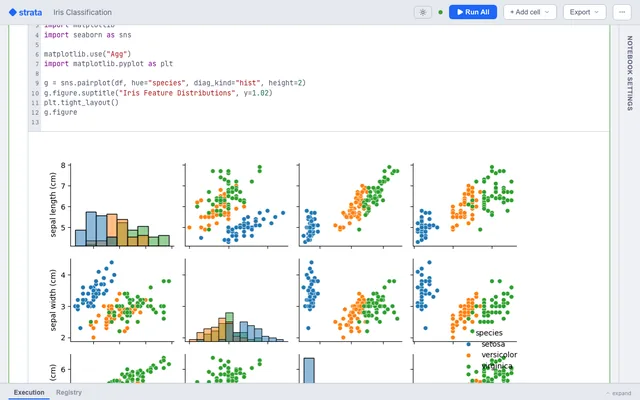
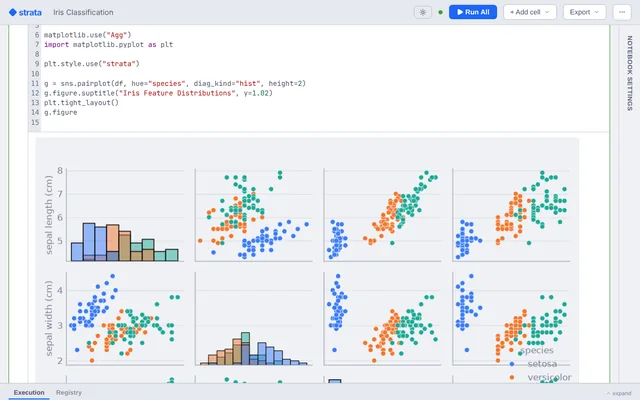
feat(display): plt.style.use("strata"), and the examples that plot use it (#1678)
* feat(display): plt.style.use("strata"), and the examples that plot use it

A matplotlib style that ships with Strata: a transparent background, grey
text and the notebook's accents, so a chart reads on the light and the dark
theme instead of sitting in matplotlib's white box. The display runtime
registers it by name when a cell imports matplotlib.style (pyplot imports it);
nothing is applied unless the cell asks.

The seven example cells that plot now use it, and the two that set the old
pale blue by hand drop it for the style's colors.

Claude-Session: https://claude.ai/code/session_0153tGTDWfzB9aBrCNiSAYQ5

* fix(display): the strata style asks for a bold title, which DejaVu Sans has

"semibold" made matplotlib print a findfont warning into the cell's console.

Claude-Session: https://claude.ai/code/session_0153tGTDWfzB9aBrCNiSAYQ5

* docs: example thumbnails for the five restyled examples

caching, iris_classification, titanic_ml, model_variants and
widget_playground, recaptured with scripts/capture_docs_shots.py after their
plots took the strata style. arxiv_classifier needs an LLM key and keeps none.

Claude-Session: https://claude.ai/code/session_0153tGTDWfzB9aBrCNiSAYQ5

* docs(changelog): mirror the strata style entry into docs/changelog.md

Claude-Session: https://claude.ai/code/session_0153tGTDWfzB9aBrCNiSAYQ5

* fix(display): review fixes for the strata style

- Cell tests run the cell inside the display runtime's capture, so a cell that
[…]

diff --git a/src/strata/notebook/display/runtime.py b/src/strata/notebook/display/runtime.py
@@ -12,8 +12,14 @@ from collections.abc import Callable
 from contextlib import contextmanager
 from dataclasses import dataclass
 from importlib.machinery import ModuleSpec
+from pathlib import Path
 from types import ModuleType
 from typing import Any
+
+# ``plt.style.use("strata")``: a transparent background and neutral ink, so a chart
+# reads on the notebook's light and dark themes alike.
+STYLE_NAME = "strata"
+STYLE_PATH = Path(__file__).with_name("strata.mplstyle")
 
 
 @dataclass(frozen=True)
@@ -67,9 +73,11 @@ class DisplayCapture:
     def capture_side_effects(self):
         """Capture ``plt.show()`` and ``Figure.show()`` as display outputs.
 
-        Imports nothing itself: pyplot is patched now if loaded, else when the cell
-        imports it. Importing it for every cell costs time and, on a fresh install,
-        prints matplotlib's font-cache notice into whichever cell ran first.
+        Also registers the ``strata`` matplotlib style, and starts the cell from the
+        process's first matplotlib settings. Imports nothing itself: each happens now
+        if matplotlib is loaded, else when the cell imports it. Importing it for every
+        cell costs time and, on a fresh install, prints matplotlib's font-cache notice
+        into whichever cell ran first.
         """
         restore: list[tuple[Any, str, Any]] = []
 
@@ -106,20 +114,73 @@ class DisplayCapture:
                 setattr(figure_cls, "show", _patched_figure_show)
                 restore.append((figure_cls, "show", original_figure_show))
 
-        hook: _AfterImport | None = None
-        if "matplotlib.pyplot" in sys.modules:
-            _patch(sys.modules["matplotlib.pyplot"])
-        else:
-            hook = _AfterImport("matplotlib.pyplot", _patch)
-            sys.meta_path.insert(0, hook)
+        hooks: list[_AfterImport] = []
+        for name, callback in (
+            ("matplotlib", _start_from_baseline_rc),
+            ("matplotlib.style", register_style),
+            ("matplotlib.pyplot", _patch),
+        ):
+            if name in sys.modules:
+                callback(sys.modules[name])
+            else:
+                hook = _AfterImport(name, callback)
+                sys.meta_path.insert(0, hook)
+                hooks.append(hook)
 
         try:
             yield
         finally:
-            if hook is not None and hook in sys.meta_path:
-                sys.meta_path.remove(hook)
+            for hook in hooks:
+                if hook in sys.meta_path:
+                    sys.meta_path.remove(hook)
             for owner, attr, original in reversed(restore):
                 setattr(owner, attr, original)
+
+
+# matplotlib's settings as this process first had them. Cells that share a process
+# (Run All's batch, a warm worker) each start from these, as a cell run alone does,
+# so ``plt.style.use("strata")`` in one cell does not restyle the next one's figure.
+_baseline_rc: dict[str, Any] | None = None
+
+
+def _start_from_baseline_rc(mpl: Any) -> None:
+    """Remember matplotlib's settings the first time, and put them back every later time.
+
+    The backend is left alone, as ``matplotlib.rc_context`` leaves it: switching it
+    would close the figures pyplot holds.
+    """
+    global _baseline_rc
+    try:
+        if _baseline_rc is None:
+            baseline = dict(mpl.rcParams.copy())
+            baseline.pop("backend", None)
+            _baseline_rc = baseline
+            return
+        update_raw = getattr(mpl.rcParams, "_update_raw", None)
+        if update_raw is not None:
+            update_raw(_baseline_rc)
+        else:
+            dict.update(mpl.rcParams, _baseline_rc)
+    except Exception:
+        return
+
+
+def register_style(style: Any) -> None:
+    """Add the Strata style to matplotlib's library, so ``plt.style.use("strata")`` finds it.
+
+    Registers it the way matplotlib loads its own styles. A matplotlib that cannot
+    read the file simply has no ``strata`` style; the cell is not failed for it.
+    """
+    try:
+        from matplotlib import rc_params_from_file
+
+        params = rc_params_from_file(str(STYLE_PATH), use_default_template=False)
+        style.library[STYLE_NAME] = params
+        if STYLE_NAME not in style.available:
+            style.available.append(STYLE_NAME)
+            style.available.sort()
+    except Exception:
+        return
 
 
 class _AfterImport:

diff --git a/tests/notebook/test_harness_batch.py b/tests/notebook/test_harness_batch.py
@@ -945,3 +945,51 @@ def test_an_interrupt_in_a_client_close_still_restores_the_names_it_bound(batch_
 
     assert [type(e) for e in errors] == [KeyboardInterrupt]
     assert namespace["strata"] == "the batch's own"
+
+
+def test_a_style_one_cell_uses_does_not_restyle_the_next(batch_pipes):
+    """Cells in a batch share a process; each starts from matplotlib's first settings,
+    as a cell run on its own does, so its figure does not depend on what ran before."""
+    pytest.importorskip("matplotlib.pyplot")
+    frame_r, frame_w, resp_r, resp_w, output_dir = batch_pipes
+
+    def cell(cell_id: str, source: str) -> dict:
+        return {
+            "cell_id": cell_id,
+            "source": source,
+            "consumed_vars": [],
+            "env": {"MPLBACKEND": "Agg"},
+            "mount_manifest": {},
+        }
+
+    cells = [
+        cell(
+            "styled",
+            "import matplotlib.pyplot as plt\nplt.style.use('strata')\n"
+            "print(plt.rcParams['savefig.transparent'])\n",
+        ),
+        cell("plain", "import matplotlib\nprint(matplotlib.rcParams['savefig.transparent'])\n"),
+    ]
+
+    thread, errors = _run_in_thread(cells, {}, output_dir, frame_w, resp_r)
+
+    frames: list[dict] = []
+    while True:
+        frame = _read_frame(frame_r)
+        if frame is None:
+            break
+        frames.append(frame)
+        if frame["type"] == "cache_check":
+            _send_response(resp_w, {"cache_hit": False, "provenance_hash": "p"})
+        elif frame["type"] == "persist":
+            _send_response(resp_w, {"ok": True, "uri": "strata://test"})
+        elif frame["type"] == "batch_end":
+            break
+
+    thread.join(timeout=5)
+    assert not errors
+
+    stdout = {
+        f["payload"]["cell_id"]: f["payload"]["stdout"] for f in frames if f["type"] == "persist"
+    }
+    assert stdout == {"styled": "True\n", "plain": "False\n"}

diff --git a/src/strata/notebook/cell_test_conftest.py b/src/strata/notebook/cell_test_conftest.py
@@ -13,6 +13,7 @@ may name a ``work_dir``, relative to where pytest started, for the cell to run i
 
 from __future__ import annotations
 
+import contextlib
 import importlib.util
 import json
 import os
@@ -31,6 +32,22 @@ _NO_CLIENT_HINT = (
     "artifacts through the notebook's server. Do that in an upstream cell and test "
     "with its result here."
 )
+
+
+def _display_runtime() -> types.ModuleType | None:
+    """The harness's display runtime, beside the serializer, so the cell runs as in a run:
+    ``plt.style.use("strata")`` finds the style. Without it the cell still runs."""
+    manifest = json.loads((_RUNDIR / "inputs.json").read_text())
+    path = Path(manifest["serializer"]).parent / "display" / "runtime.py"
+    if not path.is_file():
+        return None
+    spec = importlib.util.spec_from_file_location("_nb_display_runtime", path)
+    if spec is None or spec.loader is None:
+        return None
+    runtime = importlib.util.module_from_spec(spec)
+    sys.modules["_nb_display_runtime"] = runtime
+    spec.loader.exec_module(runtime)
+    return runtime
 
 
 def _load_inputs() -> dict[str, object]:
@@ -75,8 +92,13 @@ def cell():
     work_dir = json.loads((_RUNDIR / "inputs.json").read_text()).get("work_dir")
     if work_dir:
         os.chdir(work_dir)
+    runtime = _display_runtime()
+    side_effects = (
+        runtime.DisplayCapture().capture_side_effects() if runtime else contextlib.nullcontext()
+    )
     try:
-        exec(compile(cell_source, "cell_source.py", "exec"), namespace)  # noqa: S102
+        with side_effects:
+            exec(compile(cell_source, "cell_source.py", "exec"), namespace)  # noqa: S102
     except Exception as exc:  # noqa: BLE001 - any cell error → a readable setup error
         pytest.fail(f"Cell did not execute (cannot test it): {type(exc).__name__}: {exc}")
 

diff --git a/tests/notebook/test_harness.py b/tests/notebook/test_harness.py
@@ -335,6 +335,30 @@ plt.show()
         assert "_" in result["variables"]
         assert result["variables"]["_"]["content_type"] == "image/png"
 
+    def test_the_strata_style_is_there_by_name_once_pyplot_is_imported(self, harness_script):
+        """``plt.style.use("strata")`` works in a cell, and the chart it styles is saved
+        with a transparent background, so it reads on either theme."""
+        pytest.importorskip("matplotlib.pyplot")
+        manifest = {
+            "source": """
+import matplotlib.pyplot as plt
+
+plt.style.use("strata")
+print("strata" in plt.style.available, plt.rcParams["savefig.transparent"])
+fig, ax = plt.subplots()
+ax.plot([1, 2, 3], [1, 4, 9])
+fig
+""",
+            "inputs": {},
+            "env": {"MPLBACKEND": "Agg"},
+        }
+
+        result = run_harness(harness_script, manifest)
+
+        assert result["success"] is True
+        assert result["stdout"].split() == ["True", "True"]
+        assert result["variables"]["_"]["content_type"] == "image/png"
+
     def test_harness_does_not_import_pyplot_for_a_cell_that_does_not(self, harness_script):
         """Importing it for every cell is slow, and on a fresh install its font-cache notice
         lands in the stderr of whichever cell ran first."""

diff --git a/tests/notebook/test_cell_test_runner.py b/tests/notebook/test_cell_test_runner.py
@@ -52,6 +52,23 @@ def test_inputs_are_injected(tmp_path):
     assert res["passed"] == 1
 
 
+def test_a_cell_using_the_strata_style_runs_under_its_tests(tmp_path):
+    """The cell runs as in a run, so ``plt.style.use("strata")`` finds the style."""
+    pytest.importorskip("matplotlib.pyplot")
+    res = run_cell_tests_in_dir(
+        rundir=tmp_path / "run",
+        venv_python=_PY,
+        cell_source=(
+            "import matplotlib\nmatplotlib.use('Agg')\nimport matplotlib.pyplot as plt\n\n"
+            "plt.style.use('strata')\nfig, ax = plt.subplots()\nax.bar([1, 2], [3, 4])\n"
+        ),
+        test_source="def test_two_bars(cell):\n    assert len(cell.ax.patches) == 2\n",
+        inputs={},
+        input_dir=tmp_path,
+    )
+    assert (res["passed"], res["failed"], res["errored"]) == (1, 0, 0), res
+
+
 def test_collection_error_becomes_one_error(tmp_path):
     # A syntax error means pytest never reaches sessionfinish, so results.json is
     # absent; the wrapper synthesizes a single error carrying the captured output.

diff --git a/examples/titanic_ml/cells/compare.py b/examples/titanic_ml/cells/compare.py
@@ -5,6 +5,8 @@ import pandas as pd
 matplotlib.use("Agg")
 import matplotlib.pyplot as plt
 
+plt.style.use("strata")
+
 # Which weights a model exposes depends on what it is: the tree ensembles have
 # feature_importances_, logistic regression has coefficients. Reading whichever
 # is there keeps the cell producing a figure whoever wins, rather than printing
@@ -19,7 +21,8 @@ else:
 importance = weights.sort_values(ascending=True)
 
 fig, ax = plt.subplots(figsize=(8, 4))
-importance.plot.barh(ax=ax, color="#89b4fa")
+importance.plot.barh(ax=ax)
+ax.grid(axis="y", visible=False)
 ax.set_title(f"Feature Importance ({best_name})")
 ax.set_xlabel(axis_label)
 plt.tight_layout()

diff --git a/examples/widget_playground/cells/plot.py b/examples/widget_playground/cells/plot.py
@@ -8,13 +8,15 @@ matplotlib.use("Agg")
 import matplotlib.pyplot as plt
 import numpy as np
 
+plt.style.use("strata")
+
 x = np.arange(n)
 base = {"linear": x, "sqrt": np.sqrt(x), "square": x.astype(float) ** 2}[curve]
 y = alpha * base
 
 fig, ax = plt.subplots(figsize=(6, 3.2))
-ax.plot(x, y, marker="o", color="#89b4fa")
-ax.fill_between(x, y, alpha=0.15, color="#89b4fa")
+(line,) = ax.plot(x, y, marker="o")
+ax.fill_between(x, y, alpha=0.15, color=line.get_color())
 ax.set_title(f"alpha={alpha}  curve={curve}")
 ax.set_xlabel("x")
 ax.set_ylabel("y")

diff --git a/examples/arxiv_classifier/cells/plot.py b/examples/arxiv_classifier/cells/plot.py
@@ -5,6 +5,8 @@ import matplotlib.pyplot as plt
 from sklearn.metrics import ConfusionMatrixDisplay, confusion_matrix
 from sklearn.model_selection import train_test_split
 
+plt.style.use("strata")
+
 X = embeddings
 y = sampled_papers["topic"].to_numpy()
 _, X_test, _, y_test = train_test_split(
@@ -20,5 +22,6 @@ ConfusionMatrixDisplay(cm, display_labels=classes).plot(
     ax=ax, cmap="Blues", colorbar=False, xticks_rotation=30
 )
 ax.set_title("arXiv Topic Classification: Confusion Matrix")
+ax.grid(False)
 plt.tight_layout()
 fig

diff --git a/examples/iris_classification/cells/scatter_plot.py b/examples/iris_classification/cells/scatter_plot.py
@@ -6,6 +6,8 @@ import seaborn as sns
 matplotlib.use("Agg")
 import matplotlib.pyplot as plt
 
+plt.style.use("strata")
+
 g = sns.pairplot(df, hue="species", diag_kind="hist", height=2)
 g.figure.suptitle("Iris Feature Distributions", y=1.02)
 plt.tight_layout()

diff --git a/examples/iris_classification/cells/confusion.py b/examples/iris_classification/cells/confusion.py
@@ -7,6 +7,8 @@ from sklearn.metrics import confusion_matrix
 matplotlib.use("Agg")
 import matplotlib.pyplot as plt
 
+plt.style.use("strata")
+
 cm = confusion_matrix(y_test, y_pred, labels=model.classes_)
 fig, ax = plt.subplots(figsize=(6, 5))
 sns.heatmap(

diff --git a/examples/model_variants/cells/confusion.py b/examples/model_variants/cells/confusion.py
@@ -7,6 +7,8 @@ import matplotlib.pyplot as plt
 import seaborn as sns
 from sklearn.metrics import confusion_matrix
 
+plt.style.use("strata")
+
 cm = confusion_matrix(y_test, y_pred, labels=model.classes_)
 fig, ax = plt.subplots(figsize=(6, 5))
 sns.heatmap(

diff --git a/examples/caching/cells/plot.py b/examples/caching/cells/plot.py
@@ -4,6 +4,8 @@ import matplotlib
 matplotlib.use("Agg")
 import matplotlib.pyplot as plt
 
+plt.style.use("strata")
+
 fig, ax = plt.subplots(figsize=(6, 3))
 ax.bar(by_region["region"], by_region["revenue"])
 ax.set_ylabel("Revenue")
